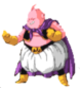
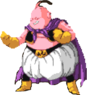
update Goku run and Goku attack image

diff --git a/src/gameobjects/MainCharacter.java b/src/gameobjects/MainCharacter.java
@@ -13,7 +13,7 @@ import util.Animation;
 import util.Resource;
 
 public class MainCharacter {
-	public static final int LAND_POSY = 100; // updated tu 130 -> 120 -> 100
+	public static final int LAND_POSY = 95; 
 	public static final float GRAVITY = 0.4f;
 	
 	private static final int NORMAL_RUN = 0;
@@ -48,18 +48,23 @@ public class MainCharacter {
 		posX = 50;
 		posY = LAND_POSY;
 		rectBound = new Rectangle();
-		startImage = Resource.getResourceImage("data/start_character.png");
+		startImage = Resource.getResourceImage("data/Goku_start.png");
 		normalRunAnim = new Animation(100);
-		normalRunAnim.addFrame(Resource.getResourceImage("data/normal_run_1.png"));
-		normalRunAnim.addFrame(Resource.getResourceImage("data/normal_run_2.png"));
-		jumping = Resource.getResourceImage("data/jumping.png");
+		normalRunAnim.addFrame(Resource.getResourceImage("data/Goku_run_1.png"));
+		normalRunAnim.addFrame(Resource.getResourceImage("data/Goku_run_2.png"));
+		normalRunAnim.addFrame(Resource.getResourceImage("data/Goku_run_3.png"));
+		normalRunAnim.addFrame(Resource.getResourceImage("data/Goku_run_4.png"));
+		normalRunAnim.addFrame(Resource.getResourceImage("data/Goku_run_5.png"));
+		normalRunAnim.addFrame(Resource.getResourceImage("data/Goku_run_6.png"));
+
+		jumping = Resource.getResourceImage("data/Goku_jump.png");
 
 		downRunAnim = new Animation(60);
-		downRunAnim.addFrame(Resource.getResourceImage("data/down_run.png"));
+		downRunAnim.addFrame(Resource.getResourceImage("data/Goku_down_run.png"));
 
 		//downRunAnim.addFrame(Resource.getResourceImage("data/main-character6.png"));
 
-		deathImage = Resource.getResourceImage("data/death_character.png");
+		deathImage = Resource.getResourceImage("data/Goku_death.png");
 //		attackAnim = new Animation(100);
 //		attackAnim.addFrame(Resource.getResourceImage("data/main-character7.png"));
 //		attackAnim.addFrame(Resource.getResourceImage("data/main-character8.png"));
